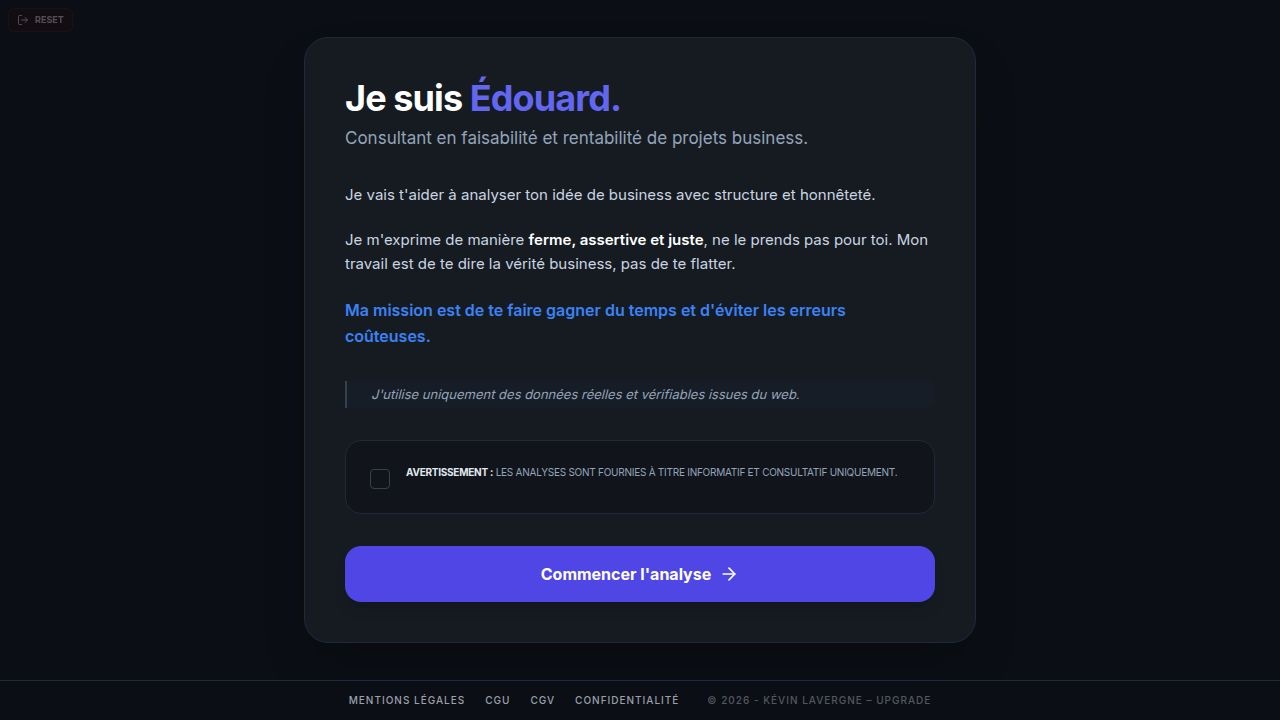
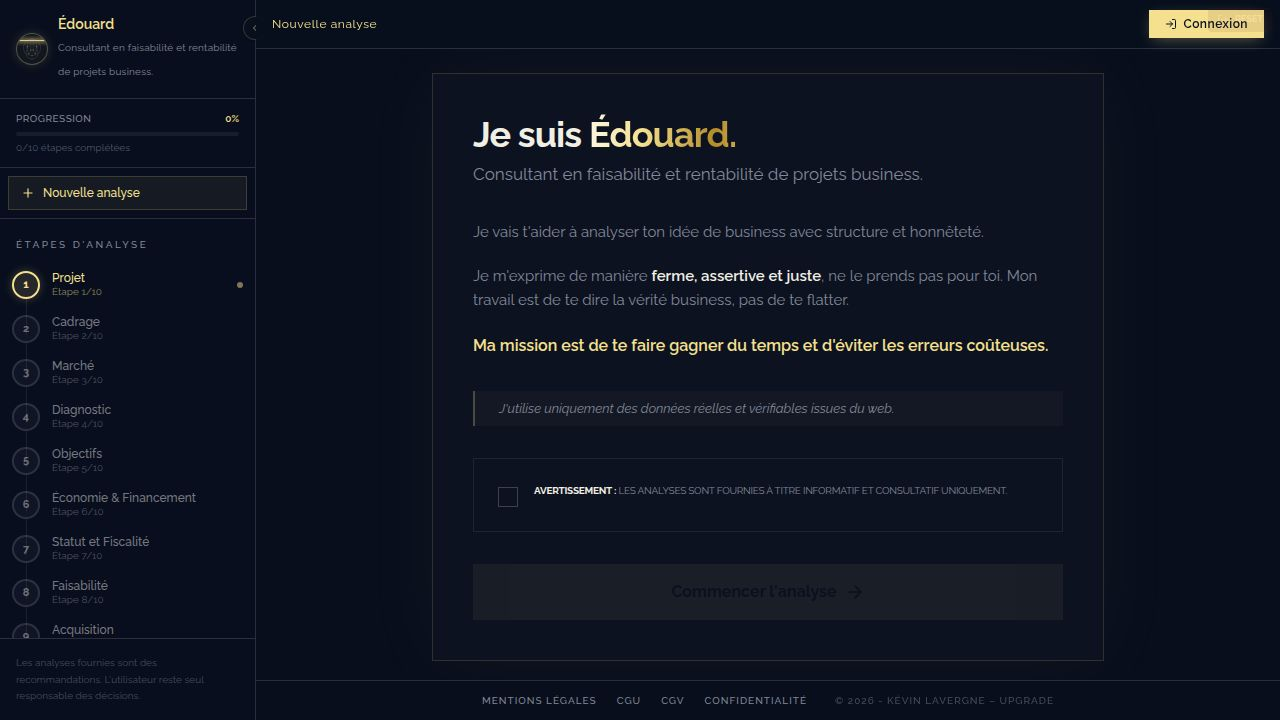
Add integration to add new users to Systeme.io
Integrates Clerk webhooks to automatically add new users to Systeme.io via the Systeme.io API, including signature verification using Svix.

Replit-Commit-Author: Agent
Replit-Commit-Session-Id: 379cb86a-22e8-4aa2-878a-749f1bd07ca4
Replit-Commit-Checkpoint-Type: full_checkpoint
Replit-Commit-Event-Id: 62aac6db-5bb5-4c61-b994-d84ecdd3246a
Replit-Commit-Screenshot-Url: https://storage.googleapis.com/screenshot-production-us-central1/8cbe2961-eabf-4e08-bfb6-e7312322966e/379cb86a-22e8-4aa2-878a-749f1bd07ca4/dAoXAls
Replit-Helium-Checkpoint-Created: true

diff --git a/artifacts/api-server/src/lib/systemeio.ts b/artifacts/api-server/src/lib/systemeio.ts
@@ -1,0 +1,72 @@
+const BASE = "https://api.systeme.io/api";
+const API_KEY = process.env.SYSTEME_IO_API_KEY ?? "";
+
+interface SystemeContact {
+  email: string;
+  firstName?: string;
+  lastName?: string;
+}
+
+async function addTag(contactId: number, tagName: string): Promise<void> {
+  const listRes = await fetch(`${BASE}/tags?limit=100`, {
+    headers: { "X-API-Key": API_KEY, Accept: "application/json" },
+  });
+  if (!listRes.ok) return;
+  const { items } = (await listRes.json()) as { items: { id: number; name: string }[] };
+  let tag = items.find((t) => t.name === tagName);
+
+  if (!tag) {
+    const createRes = await fetch(`${BASE}/tags`, {
+      method: "POST",
+      headers: {
+        "X-API-Key": API_KEY,
+        "Content-Type": "application/json",
+        Accept: "application/json",
+      },
+      body: JSON.stringify({ name: tagName }),
+    });
+    if (!createRes.ok) return;
+    tag = (await createRes.json()) as { id: number; name: string };
+  }
+
+  await fetch(`${BASE}/contacts/${contactId}/tags`, {
+    method: "POST",
+    headers: {
+      "X-API-Key": API_KEY,
+      "Content-Type": "application/json",
+      Accept: "application/json",
+    },
+    body: JSON.stringify({ tagId: tag.id }),
+  });
+}
+
+export async function upsertContact(contact: SystemeContact): Promise<void> {
+  if (!API_KEY) {
+    console.warn("[systemeio] SYSTEME_IO_API_KEY not set — skipping");
+    return;
+  }
+
+  const res = await fetch(`${BASE}/contacts`, {
+    method: "POST",
+    headers: {
+      "X-API-Key": API_KEY,
+      "Content-Type": "application/json",
+      Accept: "application/json",
+    },
+    body: JSON.stringify({
+      email: contact.email,
+      firstName: contact.firstName ?? "",
+      lastName: contact.lastName ?? "",
+    }),
+  });
+
+  if (!res.ok) {
+    const body = await res.text();
+    console.error("[systemeio] upsertContact failed", res.status, body);
+    return;
+  }
+
+  const created = (await res.json()) as { id: number };
+  await addTag(created.id, "Édouard");
+  console.info("[systemeio] contact upserted + tagged", contact.email);
+}

diff --git a/artifacts/api-server/src/routes/webhooks.ts b/artifacts/api-server/src/routes/webhooks.ts
@@ -1,0 +1,69 @@
+import { Router } from "express";
+import { Webhook } from "svix";
+import { upsertContact } from "../lib/systemeio";
+
+const router = Router();
+
+router.post(
+  "/clerk",
+  async (req, res) => {
+    const secret = process.env.CLERK_WEBHOOK_SECRET;
+    if (!secret) {
+      console.warn("[webhook] CLERK_WEBHOOK_SECRET not set — skipping verification");
+      res.status(200).json({ ok: true });
+      return;
+    }
+
+    const svixId        = req.headers["svix-id"] as string;
+    const svixTimestamp = req.headers["svix-timestamp"] as string;
+    const svixSignature = req.headers["svix-signature"] as string;
+
+    if (!svixId || !svixTimestamp || !svixSignature) {
+      res.status(400).json({ error: "Missing svix headers" });
+      return;
+    }
+
+    const rawBody = Buffer.isBuffer(req.body) ? req.body.toString("utf8") : JSON.stringify(req.body);
+
+    let payload: Record<string, unknown>;
+    try {
+      const wh = new Webhook(secret);
+      payload = wh.verify(rawBody, {
+        "svix-id": svixId,
+        "svix-timestamp": svixTimestamp,
+        "svix-signature": svixSignature,
+      }) as Record<string, unknown>;
+    } catch (err) {
+      console.error("[webhook] signature verification failed", err);
+      res.status(400).json({ error: "Invalid signature" });
+      return;
+    }
+
+    const event = payload.type as string;
+    console.info("[webhook] Clerk event received:", event);
+
+    if (event === "user.created") {
+      const data = payload.data as {
+        email_addresses?: { email_address: string; primary?: boolean }[];
+        first_name?: string;
+        last_name?: string;
+      };
+
+      const email =
+        data.email_addresses?.find((e) => e.primary)?.email_address ??
+        data.email_addresses?.[0]?.email_address;
+
+      if (email) {
+        await upsertContact({
+          email,
+          firstName: data.first_name ?? "",
+          lastName: data.last_name ?? "",
+        });
+      }
+    }
+
+    res.status(200).json({ ok: true });
+  },
+);
+
+export default router;

diff --git a/artifacts/api-server/src/app.ts b/artifacts/api-server/src/app.ts
@@ -36,6 +36,13 @@ app.use(
 app.use(CLERK_PROXY_PATH, clerkProxyMiddleware());
 
 app.use(cors({ credentials: true, origin: true }));
+
+// Raw body required for Svix webhook signature verification
+app.use(
+  "/api/webhooks",
+  express.raw({ type: "application/json", limit: "2mb" }),
+);
+
 app.use(express.json({ limit: "2mb" }));
 app.use(express.urlencoded({ extended: true, limit: "2mb" }));
 

diff --git a/artifacts/api-server/src/routes/index.ts b/artifacts/api-server/src/routes/index.ts
@@ -2,11 +2,13 @@ import { Router, type IRouter } from "express";
 import healthRouter from "./health";
 import conversationsRouter from "./conversations";
 import chatRouter from "./chat";
+import webhooksRouter from "./webhooks";
 
 const router: IRouter = Router();
 
 router.use(healthRouter);
 router.use("/conversations", conversationsRouter);
 router.use("/chat", chatRouter);
+router.use("/webhooks", webhooksRouter);
 
 export default router;